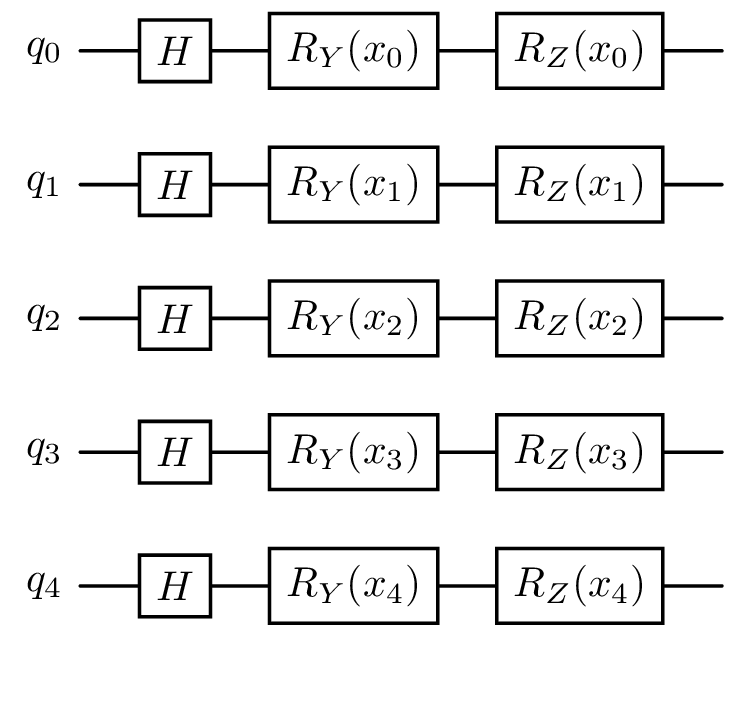
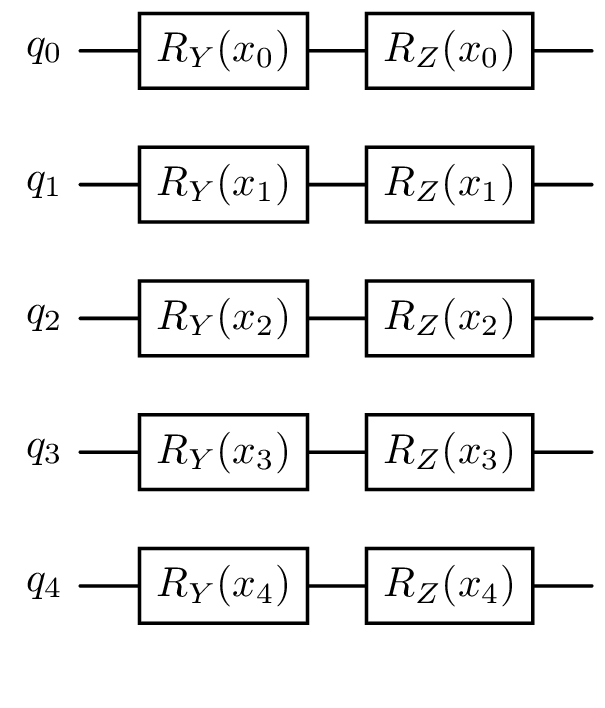
fix encoders

diff --git a/images/encoders/quantikz/M.tex b/images/encoders/quantikz/M.tex
@@ -7,10 +7,10 @@
 
 \begin{document}
 \begin{quantikz} 
-     \lstick{$q_0$} & \gate{H} & \gate{R_{Y} (\arcsin(x_{0}^{2}))} & \gate{R_{Z} (\arccos(x_{0})^{2})} & \\ 
-     \lstick{$q_1$} & \gate{H} & \gate{R_{Y} (\arcsin(x_{1}^{2}))} & \gate{R_{Z} (\arccos(x_{1})^{2})} & \\ 
-     \lstick{$q_2$} & \gate{H} & \gate{R_{Y} (\arcsin(x_{2}^{2}))} & \gate{R_{Z} (\arccos(x_{2})^{2})} & \\ 
-     \lstick{$q_3$} & \gate{H} & \gate{R_{Y} (\arcsin(x_{3}^{3}))} & \gate{R_{Z} (\arccos(x_{3})^{3})} & \\ 
-     \lstick{$q_4$} & \gate{H} & \gate{R_{Y} (\arcsin(x_{4}^{2}))} & \gate{R_{Z} (\arccos(x_{4})^{2})} & \\                                                           
+     \lstick{$q_0$} &  \gate{R_{Y} (\arcsin(x_{0}))} & \gate{R_{Z} (\arccos(x_{0}^{2}))} & \\ 
+     \lstick{$q_1$} &  \gate{R_{Y} (\arcsin(x_{1}))} & \gate{R_{Z} (\arccos(x_{1}^{2}))} & \\ 
+     \lstick{$q_2$} &  \gate{R_{Y} (\arcsin(x_{2}))} & \gate{R_{Z} (\arccos(x_{2}^{2}))} & \\ 
+     \lstick{$q_3$} &  \gate{R_{Y} (\arcsin(x_{3}))} & \gate{R_{Z} (\arccos(x_{3}^{2}))} & \\ 
+     \lstick{$q_4$} &  \gate{R_{Y} (\arcsin(x_{4}))} & \gate{R_{Z} (\arccos(x_{4}^{2}))} & \\                                                           
 \end{quantikz}
 \end{document}

diff --git a/images/encoders/quantikz/A2.tex b/images/encoders/quantikz/A2.tex
@@ -7,10 +7,10 @@
 
 \begin{document}
 \begin{quantikz} 
-   \lstick{$q_0$} & \gate{H} & \gate{R_{Y} (x_{0})} & \gate{R_{Z} (x_{0})} & \\ 
-   \lstick{$q_1$} & \gate{H} & \gate{R_{Y} (x_{1})} & \gate{R_{Z} (x_{1})} & \\ 
-   \lstick{$q_2$} & \gate{H} & \gate{R_{Y} (x_{2})} & \gate{R_{Z} (x_{2})} & \\ 
-   \lstick{$q_3$} & \gate{H} & \gate{R_{Y} (x_{3})} & \gate{R_{Z} (x_{3})} & \\ 
-   \lstick{$q_4$}& \gate{H}  & \gate{R_{Y} (x_{4})} & \gate{R_{Z} (x_{4})} & \\
+   \lstick{$q_0$} &  \gate{R_{Y} (x_{0})} & \gate{R_{Z} (x_{0})} & \\ 
+   \lstick{$q_1$} &  \gate{R_{Y} (x_{1})} & \gate{R_{Z} (x_{1})} & \\ 
+   \lstick{$q_2$} &  \gate{R_{Y} (x_{2})} & \gate{R_{Z} (x_{2})} & \\ 
+   \lstick{$q_3$} &  \gate{R_{Y} (x_{3})} & \gate{R_{Z} (x_{3})} & \\ 
+   \lstick{$q_4$}& \gate{R_{Y} (x_{4})} & \gate{R_{Z} (x_{4})} & \\
 \end{quantikz}
 \end{document}

diff --git a/images/encoders/quantikz/A1.tex b/images/encoders/quantikz/A1.tex
@@ -7,10 +7,10 @@
 
 \begin{document}
 \begin{quantikz} 
-    \lstick{$q_0$} & \gate{H} & \gate{R_{Y} (x_{0})} & \\ 
-    \lstick{$q_1$} & \gate{H} & \gate{R_{Y} (x_{1})} & \\ 
-    \lstick{$q_2$} & \gate{H} & \gate{R_{Y} (x_{2})} & \\ 
-    \lstick{$q_3$} & \gate{H} & \gate{R_{Y} (x_{3})} & \\ 
-    \lstick{$q_4$}& \gate{H}  & \gate{R_{Y} (x_{4})} & \\
+    \lstick{$q_0$} &  \gate{R_{Y} (x_{0})} & \\ 
+    \lstick{$q_1$} &  \gate{R_{Y} (x_{1})} & \\ 
+    \lstick{$q_2$} &  \gate{R_{Y} (x_{2})} & \\ 
+    \lstick{$q_3$} &  \gate{R_{Y} (x_{3})} & \\ 
+    \lstick{$q_4$}&  \gate{R_{Y} (x_{4})} & \\
 \end{quantikz}
 \end{document}
